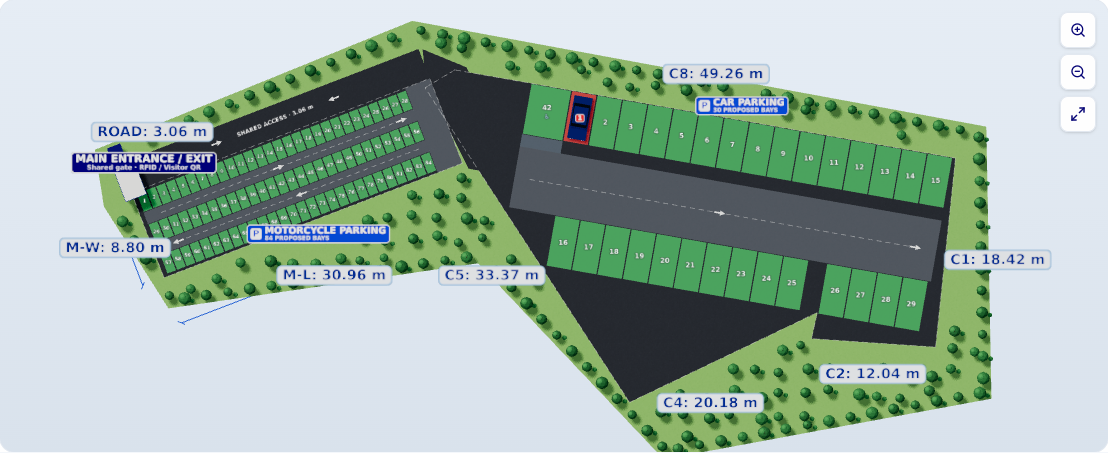
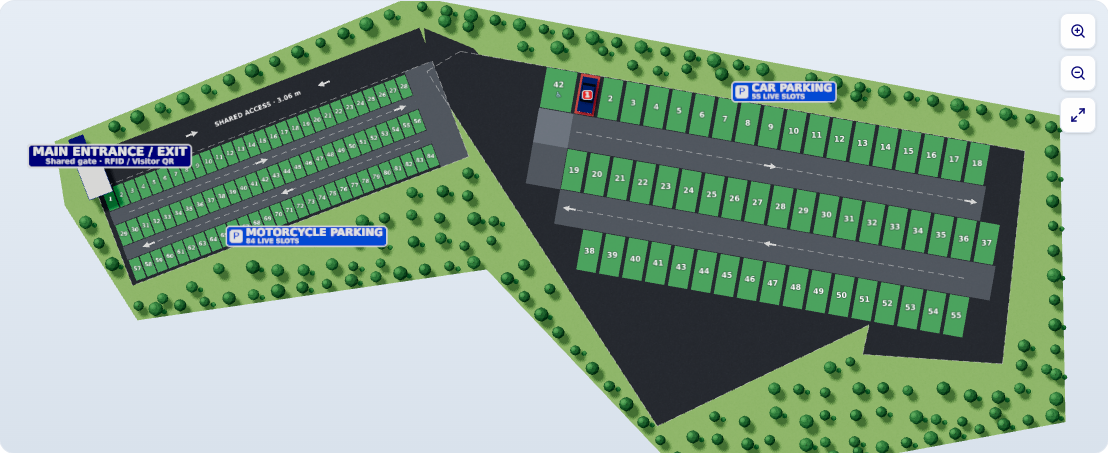
Default to all 55 car slots with separate measured view and working fallback taps

diff --git a/src/components/ParkingLot3D.tsx b/src/components/ParkingLot3D.tsx
@@ -626,7 +626,7 @@ function Signs({ g, areas, trays }: { g: MapGeometry; areas: { area_code: string
         const st = areas.find(x => x.area_code === a.area);
         const title = a.area === 'MC' ? 'MOTORCYCLE PARKING' : a.area === 'CAR' ? 'CAR PARKING' : a.label;
         const inventory = g.measurement_basis?.inventory;
-        const proposed = inventory ? `${a.area === 'MC' ? inventory.motorcycle_drawn : inventory.car_drawn} PROPOSED BAYS` : st ? `${st.capacity} SLOTS · ${st.available} AVAILABLE` : '';
+        const proposed = inventory ? `${a.area === 'MC' ? inventory.motorcycle_drawn : inventory.car_drawn} ${g.measurement_basis?.scale === 'slot_diagram' ? 'LIVE SLOTS' : 'PROPOSED BAYS'}` : st ? `${st.capacity} SLOTS · ${st.available} AVAILABLE` : '';
         const tex = badge([title, proposed], '#1D4ED8', { icon: 'P', size: 30 });
         return (
           <group key={a.area}>
@@ -803,21 +803,37 @@ type Props = {
 
 export default function ParkingLot3D(props: Props) {
   const [supported] = useState(webglAvailable);
+  const [measured, setMeasured] = useState(false);
   const [showMeasurements, setShowMeasurements] = useState(false);
+  const activeData = useMemo(() => {
+    const alternative = props.data.measured_layout;
+    if (!measured || !alternative) return props.data;
+    return {
+      ...props.data,
+      geometry: alternative.geometry,
+      slots: props.data.slots.map(slot => {
+        const position = alternative.positions[slot.slot_code];
+        return { ...slot, placed: !!position, x: position?.x ?? null, y: position?.y ?? null, w: position?.w ?? null, h: position?.h ?? null, rotation: position?.rotation ?? 0 };
+      }),
+    };
+  }, [props.data, measured]);
+  const chooseLayout = (value: boolean) => { setMeasured(value); setShowMeasurements(value); };
+  const inventory = activeData.geometry.measurement_basis?.inventory;
   const fallback = <div className="space-y-2">
     <p className="text-xs text-amber-700">This browser is showing the simplified plan. Slot positions and availability are unchanged.</p>
-    <ParkingMap data={props.data} highlight={props.highlight} onSelect={props.onSelect} focusArea={props.focusArea} showMeasurements={showMeasurements} />
+    <ParkingMap data={activeData} highlight={props.highlight} onSelect={props.onSelect} focusArea={props.focusArea} showMeasurements={showMeasurements} />
   </div>;
   return <div className="space-y-3 min-w-0">
     <div className="flex flex-wrap items-center justify-between gap-2">
-      <p className="text-xs text-slate-500">Proposed campus parking layout</p>
-      <button type="button" aria-pressed={showMeasurements} onClick={() => setShowMeasurements(value => !value)} className={`min-h-11 rounded-lg border px-3 py-2 text-xs font-semibold inline-flex items-center gap-2 ${showMeasurements ? 'border-[#080677] bg-blue-50 text-[#080677]' : 'border-slate-200 text-slate-600 hover:bg-blue-50'}`}><Ruler size={16} />{showMeasurements ? 'Hide measurements' : 'Show measurements'}</button>
+      {props.data.measured_layout ? <div role="group" aria-label="Layout basis" className="flex flex-wrap gap-2">
+        {[{ value: false, label: 'Slot map · 55 cars' }, { value: true, label: 'Measured proposal' }].map(option => <button key={option.label} type="button" aria-pressed={measured === option.value} onClick={() => chooseLayout(option.value)} className={`min-h-11 rounded-lg border px-3 py-2 text-xs font-semibold ${measured === option.value ? 'border-[#080677] bg-[#080677] text-white' : 'border-slate-200 text-slate-600 hover:bg-blue-50'}`}>{option.label}</button>)}
+      </div> : <p className="text-xs text-slate-500">Proposed campus parking layout</p>}
+      {(measured || !props.data.measured_layout) && <button type="button" aria-pressed={showMeasurements} onClick={() => { if (!showMeasurements) setMeasured(true); setShowMeasurements(value => !value); }} className={`min-h-11 rounded-lg border px-3 py-2 text-xs font-semibold inline-flex items-center gap-2 ${showMeasurements ? 'border-[#080677] bg-blue-50 text-[#080677]' : 'border-slate-200 text-slate-600 hover:bg-blue-50'}`}><Ruler size={16} />{showMeasurements ? 'Hide measurements' : 'Show measurements'}</button>}
     </div>
-    {!!props.data.geometry.proposed_slot_codes?.length && <p className="text-xs text-slate-500">Proposed positions: follow parking staff directions until the campus layout is confirmed.</p>}
-    {props.data.geometry.measurement_basis?.inventory && <div role="note" className="rounded-xl border border-amber-200 bg-amber-50 p-3 text-xs leading-relaxed text-amber-900"><strong>Layout under review:</strong> {props.data.geometry.measurement_basis.inventory.motorcycle_drawn} compact motorcycle bays and {props.data.geometry.measurement_basis.inventory.car_drawn} car bays are shown. The configured {props.data.geometry.measurement_basis.inventory.car_configured} car records remain in the system; fitting all of them has not been confirmed. See Measurements & design basis.</div>}
-    {showMeasurements && <p className="text-xs text-blue-800">One metric scale for bays and boundaries. Car bearings are assumed; measurements do not certify physical capacity.</p>}
-    {supported ? <WebGLBoundary fallback={fallback}><Lot {...props} showMeasurements={showMeasurements} /></WebGLBoundary> : fallback}
-    <ParkingMeasurements geometry={props.data.geometry} />
+    {inventory && (measured ? <div role="note" className="rounded-xl border border-amber-200 bg-amber-50 p-3 text-xs leading-relaxed text-amber-900"><strong>Measured proposal:</strong> {inventory.car_drawn} car bays are drawn with metre-sized bay templates. Physical fit for all {inventory.car_configured} cars is still unverified. Return to Slot map to see every live slot.</div> : <p role="note" className="rounded-xl border border-blue-100 bg-blue-50 p-3 text-xs leading-relaxed text-blue-900"><strong>Complete slot map:</strong> {inventory.car_drawn} car slots and {inventory.motorcycle_drawn} motorcycle slots. Car bay symbols are schematic, not to scale. Follow parking staff directions.</p>)}
+    {showMeasurements && <p className="text-xs text-blue-800">One metric scale in the measured proposal. Car bearings are assumed; measurements do not certify physical capacity.</p>}
+    {supported ? <WebGLBoundary fallback={fallback}><Lot {...props} data={activeData} showMeasurements={showMeasurements} /></WebGLBoundary> : fallback}
+    <ParkingMeasurements geometry={activeData.geometry} />
   </div>;
 }
 

diff --git a/src/components/ParkingMeasurements.tsx b/src/components/ParkingMeasurements.tsx
@@ -17,13 +17,14 @@ function BayTemplate({ width, length, label }: { width: number; length: number; 
 export default function ParkingMeasurements({ geometry }: { geometry: MapGeometry }) {
   const basis = geometry.measurement_basis;
   if (!basis) return null;
+  const diagram = basis.scale === 'slot_diagram';
   return <details className="rounded-xl border border-slate-200 bg-white p-4 min-w-0">
     <summary className="cursor-pointer text-sm font-semibold text-[#080677] flex items-center gap-2"><Ruler size={16} />Measurements & design basis</summary>
     <div className="space-y-5 mt-4">
       <p className="text-sm text-slate-600">{basis.note}</p>
       {basis.inventory && <div className="grid gap-3 sm:grid-cols-2">
         <div className="rounded-xl border border-blue-100 bg-blue-50 p-4"><h3 className="text-sm font-bold text-[#080677]">Motorcycle proposal</h3><p className="my-2 text-2xl font-bold text-[#080677]">{basis.inventory.motorcycle_drawn} compact bays</p><p className="text-xs leading-relaxed text-slate-600">{basis.motorcycle_proposal}</p></div>
-        <div className="rounded-xl border border-amber-200 bg-amber-50 p-4"><h3 className="text-sm font-bold text-amber-900">Car fit still under review</h3><p className="my-2 text-2xl font-bold text-amber-900">{basis.inventory.car_drawn} drawn / {basis.inventory.car_configured} configured</p><p className="text-xs leading-relaxed text-amber-900">{basis.car_proposal}</p></div>
+        <div className="rounded-xl border border-amber-200 bg-amber-50 p-4"><h3 className="text-sm font-bold text-amber-900">{diagram ? 'Complete car slot map' : 'Car fit still under review'}</h3><p className="my-2 text-2xl font-bold text-amber-900">{basis.inventory.car_drawn} {diagram ? 'mapped' : 'drawn'} / {basis.inventory.car_configured} configured</p><p className="text-xs leading-relaxed text-amber-900">{basis.car_proposal}</p></div>
       </div>}
       <div className="grid gap-3 sm:grid-cols-3">
         {basis.standards.map(standard => <div key={standard.type} className="min-w-0 rounded-xl border border-blue-100 bg-slate-50 p-3">
@@ -46,7 +47,7 @@ export default function ParkingMeasurements({ geometry }: { geometry: MapGeometr
         <div className="min-w-0 space-y-5">
           <div><h3 className="text-sm font-semibold text-[#080677] mb-2">Owner-reported dimensions</h3><div className="space-y-2">{geometry.dimensions.filter(d => !d.id?.startsWith('C')).map(dimension => <div key={dimension.id} className="flex flex-wrap justify-between gap-2 text-xs border-b border-slate-100 pb-2"><span className="text-slate-600">{dimension.description}</span><span className="font-semibold text-slate-800">{dimension.text}</span></div>)}</div></div>
           {!!basis.car_edges_m?.length && <div><h3 className="text-sm font-semibold text-[#080677] mb-2">Car boundary · supplied sequence</h3><p className="text-xs text-slate-500 mb-3">C1 starts at the right edge, continuing around the notch and back along C8. This mapping is assumed from the image, not a survey.</p><div className="grid grid-cols-2 gap-x-4 gap-y-2">{basis.car_edges_m.map((length, index) => <div key={index} className="flex justify-between gap-2 text-xs border-b border-slate-100 pb-2"><span className="text-slate-600">C{index+1}</span><strong className="text-slate-800">{length.toFixed(2)} m</strong></div>)}</div></div>}
-          <p className="text-xs leading-relaxed text-slate-600">The drawing uses the same scale for every parcel, bay and aisle. The retained inventory is not a certified physical capacity. Follow campus parking directions until the layout is checked on site.</p>
+          <p className="text-xs leading-relaxed text-slate-600">{diagram ? 'The complete slot map uses schematic car symbols. Reference dimensions below are physical design references; they do not describe the symbol size. The Measured proposal view uses one scale for parcels, bays and aisles.' : 'The measured proposal uses the same scale for every parcel, bay and aisle. The retained inventory is not a certified physical capacity.'} Follow campus parking directions until the layout is checked on site.</p>
         </div>
       </div>
     </div>

diff --git a/src/components/ParkingMap.tsx b/src/components/ParkingMap.tsx
@@ -76,7 +76,7 @@ export interface MapGeometry {
   gate: { at: Point; angle: number; label: string; sublabel: string; label_at: Point };
   lanes: { points: Point[]; kind: 'road_in' | 'road_out' | 'to_area' | 'lane'; reverse?: boolean; label?: string; label_at?: Point; label_angle?: number }[];
   dimensions: { id?: string; text: string; description?: string; at: Point; angle: number; from?: Point; to?: Point }[];
-  circulation?: { polygon: Point[]; kind: string; width_m: number }[];
+  circulation?: { polygon: Point[]; kind: string; width_m?: number }[];
   proposed_slot_codes?: string[];
   measurement_basis?: {
     survey_verified: boolean; scale: string; source_image: string; note: string; pathway_note: string;
@@ -92,6 +92,7 @@ export interface MapData {
   view_box: [number, number, number, number];
   geometry: MapGeometry;
   slots: MapSlot[];
+  measured_layout?: { geometry: MapGeometry; positions: Record<string, { x: number; y: number; w: number; h: number; rotation: number }> };
   extra_bays: MapBay[];
 }
 

diff --git a/src/components/usePanZoom.ts b/src/components/usePanZoom.ts
@@ -58,7 +58,9 @@ export function usePanZoom(svgRef: React.RefObject<SVGSVGElement | null>, home: 
 
   const onPointerDown = (e: React.PointerEvent<SVGSVGElement>) => {
     pointers.current.set(e.pointerId, { x: e.clientX, y: e.clientY });
-    (e.currentTarget as Element).setPointerCapture?.(e.pointerId);
+    // Capture the hit element so a tap still dispatches its click to the slot.
+    // Capturing the outer SVG retargets the click away from interactive bays.
+    (e.target as Element).setPointerCapture?.(e.pointerId);
 
     if (pointers.current.size === 2) {
       const [a, b] = [...pointers.current.values()];
